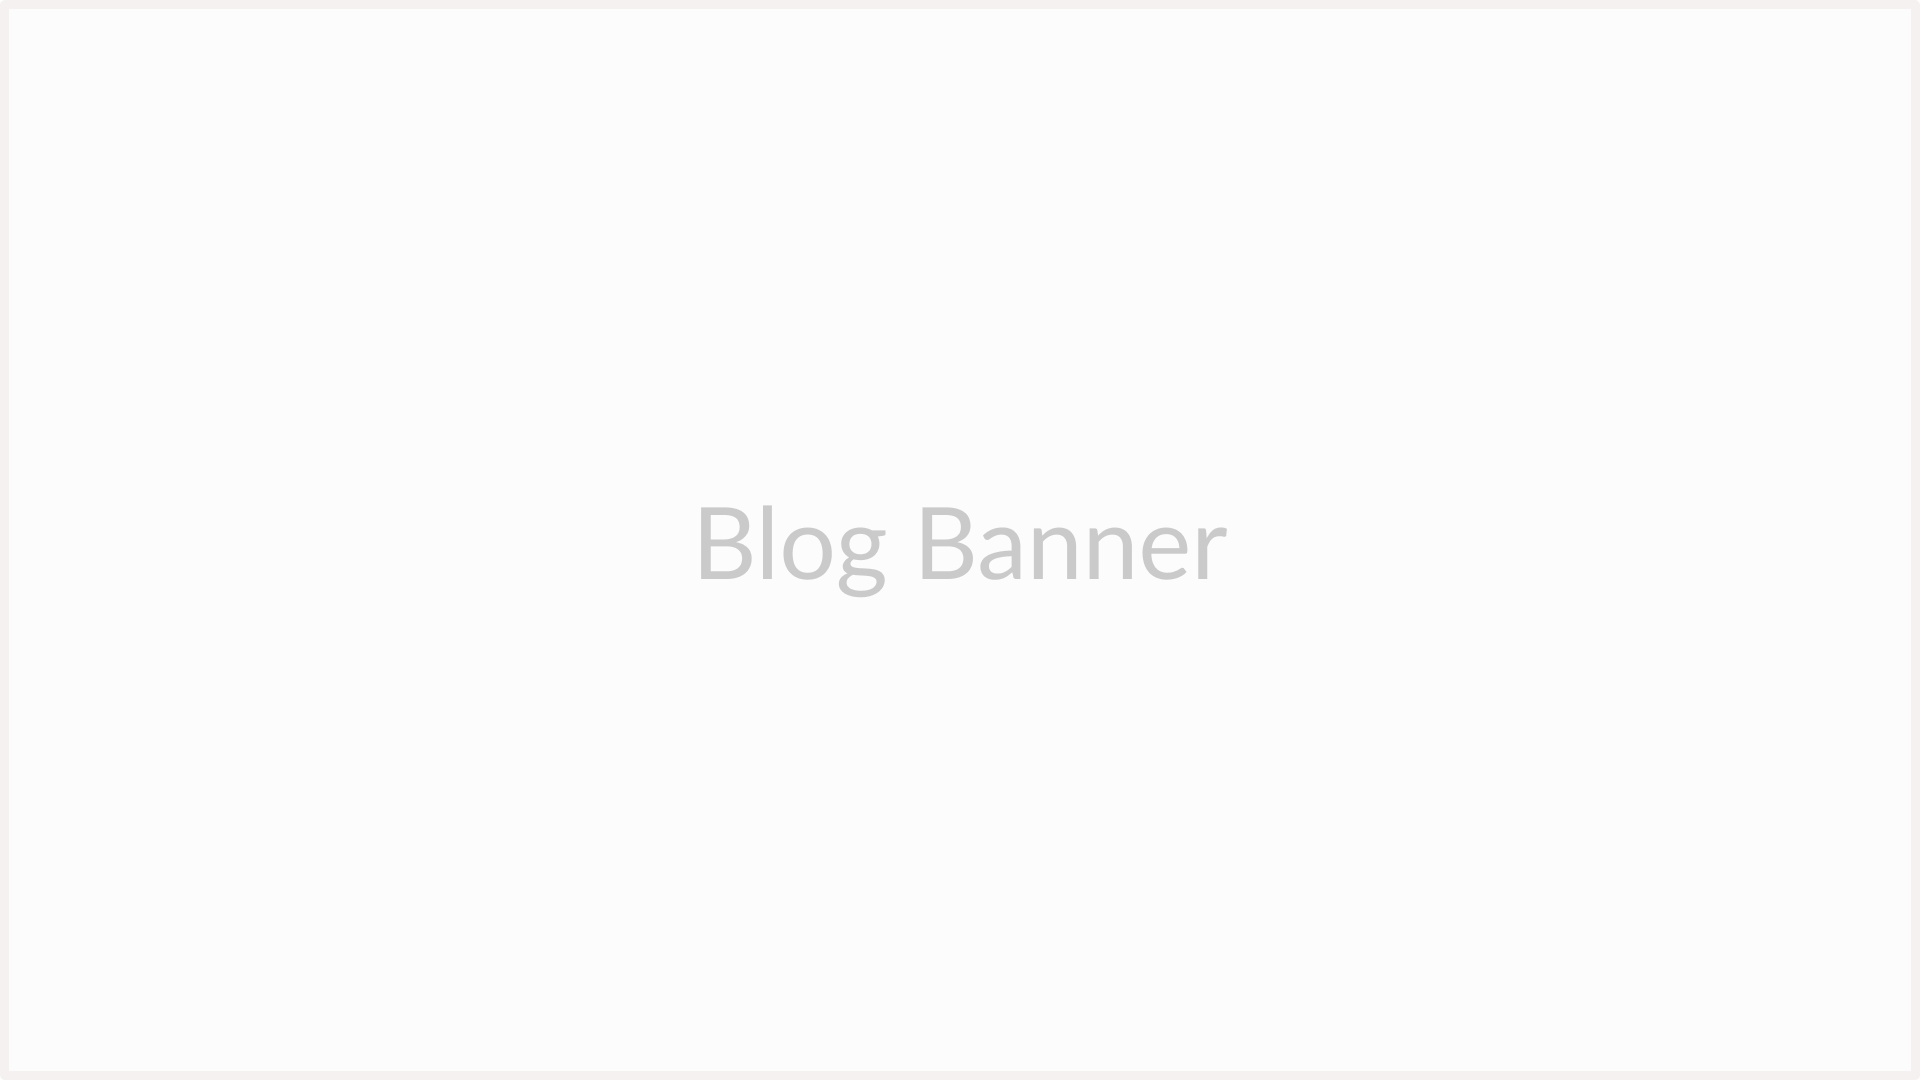
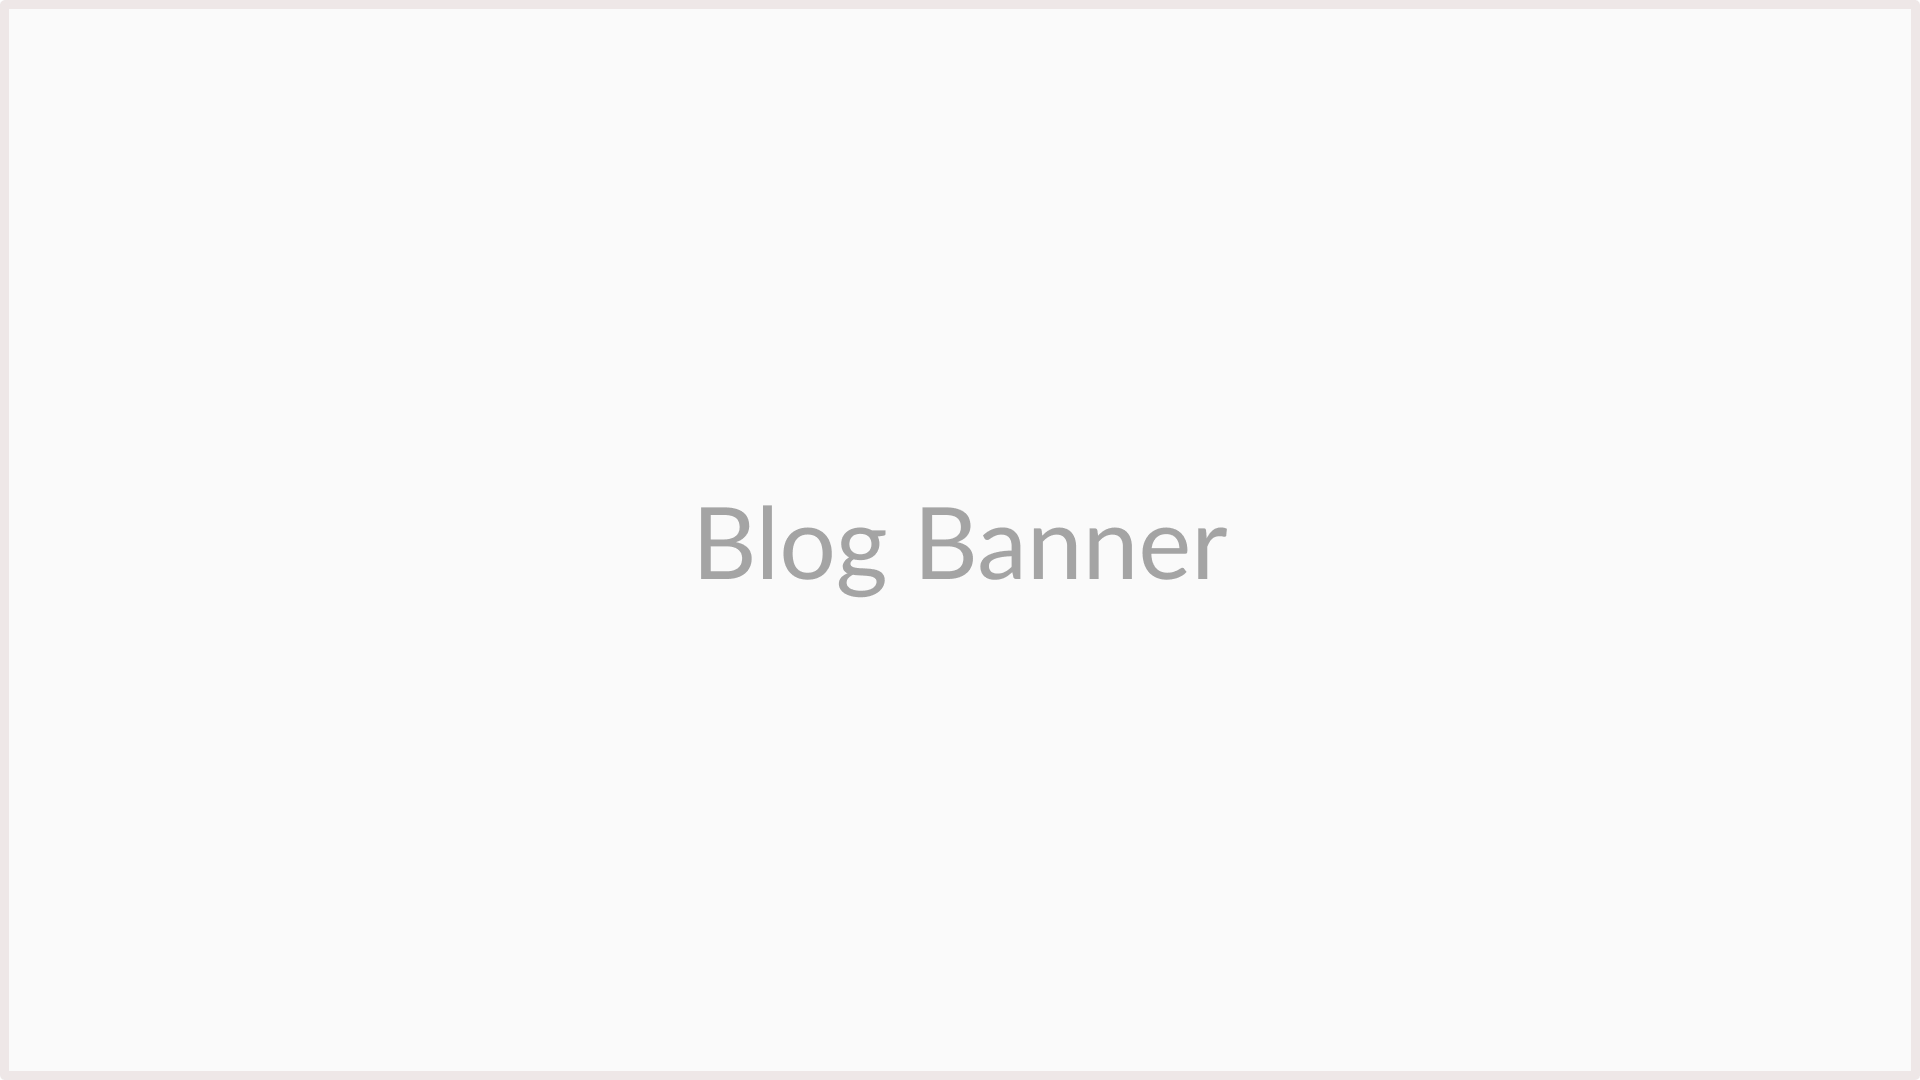
In the blog -  Blog Title Texture
Creating a text area where we can write the heading or the title of the blog

 On branch main

 Changes to be committed:
	modified:   Portfolio-frontend/src/assets/blog banner.png
	modified:   Portfolio-frontend/src/components/Blog/Pages/BlogEditorPages.jsx
	modified:   Portfolio-frontend/src/components/Blog/blogApp/BlogEditor.jsx
	modified:   Portfolio-frontend/src/components/Blog/blogApp/BlogEditor.scss
	modified:   Portfolio-frontend/src/components/Blog/blogApp/BlogNavbar.jsx
	modified:   Portfolio-frontend/src/components/Blog/blogApp/BlogNavbar.scss
	modified:   Portfolio-frontend/src/contexts/globalContext.jsx

Changed region(s): [[0.3438, 0.4583, 0.6562, 0.55]]

diff --git a/Portfolio-frontend/src/components/Blog/blogApp/BlogEditor.jsx b/Portfolio-frontend/src/components/Blog/blogApp/BlogEditor.jsx
@@ -1,33 +1,57 @@
 // PersonalWebSite\Portfolio-frontend\src\components\Blog\blogApp\BlogEditor.jsx
 
 import { Link } from 'react-router-dom';
-import { useRef } from 'react';
+import { useContext, useRef } from 'react';
 import { toast, Toaster } from 'react-hot-toast';
 import images from '../../../assets/imageIndex.js';
 import { awsUploadImage } from '../../../common/aws.jsx';
 import './BlogEditor.scss';
+import { userContext } from '../../../contexts/context';
 
 export const BlogEditor = () => {
-  let blogBannerRef = useRef();
+  const nextInputRef = useRef(); // Reference to next input block/field
 
-  const handleBannerUpload = (e) => {
-    let img = e.target.files[0];
+  // Context access and destructuring
+  const { blog, setBlog } = useContext(userContext);
+  const { title, banner, content, tags, author } = blog[0]; // Accessing the first element of the array
+
+  const handleTitleKeyDown = e => {
+    if (e.key === 'Enter') {
+      // If the "Enter" key is pressed
+      e.preventDefault(); // Prevents line breaks or submission
+      if (nextInputRef.current) {
+        nextInputRef.current.focus(); //Moves focus to the next field
+      }
+    }
+  };
+
+  const handleTitleChange = e => {
+    const input = e.target.value;
+    // Updating blog status
+    setBlog([{ ...blog[0], title: input }]);
+  };
+
+  const handleBannerUpload = e => {
+    const img = e.target.files[0];
 
     if (img) {
-      let loadingToast = toast.loading('uploading...');
+      const loadingToast = toast.loading('Uploading...');
 
       awsUploadImage(img)
-        .then((url) => {
+        .then(url => {
           console.log('Uploaded image URL:', url);
           if (url) {
             toast.dismiss(loadingToast);
             toast.success('Image uploaded successfully');
-            blogBannerRef.current.src = url;
+
+            // Updating the blog status banner
+            setBlog([{ ...blog[0], banner: url }]);
           }
         })
-        .catch((err) => {
+        .catch(err => {
           toast.dismiss(loadingToast);
-          return toast.error(err);
+          toast.error('Image upload failed');
+          console.error(err);
         });
     }
   };
@@ -35,16 +59,15 @@ export const BlogEditor = () => {
   return (
     <>
       <nav className='blogEditorNavbar'>
-        {/* Link to the blog homepage */}
         <Link to='/blog'>
           <img src={images.deoIconGold} alt='Circular logo with the letter D' />
         </Link>
-        <p className='blogEditorTitle'>New blog</p>
+
+        <p className='blogEditorTitle'> {title.length ? title : 'New Blog'}</p>
+
         <div className='blogEditorNavbarButtons'>
           <button className='blogEditorNavbarButton'>Publish</button>
-          <button className='blogEditorNavbarButton blogEditorNavbarButtonDraft'>
-            save draft
-          </button>
+          <button className='blogEditorNavbarButton blogEditorNavbarButtonDraft'>Save draft</button>
         </div>
       </nav>
       <Toaster />
@@ -53,8 +76,7 @@ export const BlogEditor = () => {
           <div className='blogEditorBanner'>
             <label htmlFor='uploadBanner'>
               <img
-                ref={blogBannerRef}
-                src={images.blogBanner}
+                src={banner || images.blogBanner} // Use the global state banner
                 alt='Placeholder image'
                 className='blogEditorBannerImage'
               />
@@ -67,6 +89,20 @@ export const BlogEditor = () => {
               />
             </label>
           </div>
+          <textarea
+            placeholder='Blog Title'
+            className='blogEditorTitle'
+            onKeyDown={handleTitleKeyDown}
+            onChange={handleTitleChange}
+            value={title} // Synchronizing title value with global state
+          ></textarea>
+
+          <hr className='blogEditorBreak' />
+
+          <textarea
+            ref={nextInputRef} // Reference to the next field
+            placeholder='Next Block'
+            className='blogEditorContent'></textarea>
         </div>
       </section>
     </>

diff --git a/Portfolio-frontend/src/contexts/globalContext.jsx b/Portfolio-frontend/src/contexts/globalContext.jsx
@@ -1,11 +1,5 @@
 // src/contexts/globalContext.jsx
 
-'use client';
-{
-  /* The "use client" Execution Guarantees that any code that depends 
-  on the client environment (such as React hooks) is executed correctly */
-}
-
 import PropTypes from 'prop-types';
 import { useCallback, useEffect, useState } from 'react';
 import { useNavigate } from 'react-router-dom';
@@ -15,35 +9,36 @@ import { lookInSession } from '../common/session';
 function Container({ children }) {
   const navigate = useNavigate();
 
-  // Variable refers to the icon with the symbol 'D'
   const onDeoIconGold1Click = useCallback(() => {
     window.scrollTo({ top: 0, behavior: 'smooth' });
   }, []);
 
-  // State for editor state which will just tell what state this editor page is
   const [editorState, setEditorState] = useState('editor');
-
-  // State for authentication status
   const [status, setStatus] = useState('notAuthenticated');
-
-  // Create a user auth State with accessToken and profile_img
   const [userAuth, setUserAuth] = useState({
     accessToken: null,
     profile_img: null,
     username: null,
   });
 
-  // useEffect should be called once
+  const blogStructure = {
+    title: '',
+    banner: '',
+    content: '',
+    tags: '',
+    auther: { personal_info: {} },
+  };
+
+  const [blog, setBlog] = useState([blogStructure]);
+
   useEffect(() => {
     const userInSession = lookInSession('user');
-
-    // Check if the user is already logged in, and if so, retrieve their data from the session storage.
     if (userInSession) {
       try {
         const user = JSON.parse(userInSession);
         setUserAuth({
           accessToken: user.accessToken,
-          profile_img: user.profile_img, // Add profile_img from session data
+          profile_img: user.profile_img,
         });
         setStatus(user.accessToken ? 'authenticated' : 'notAuthenticated');
       } catch (error) {
@@ -57,13 +52,10 @@ function Container({ children }) {
     }
   }, []);
 
-  // Function to handle sign out
   const onSignOutClick = useCallback(() => {
     setUserAuth({ accessToken: null, profile_img: null });
     setStatus('notAuthenticated');
-    // Clear user data from session storage
     sessionStorage.removeItem('user');
-    // Redirects to blog page after logout
     navigate('/blog');
   }, [navigate]);
 
@@ -78,6 +70,9 @@ function Container({ children }) {
         onSignOutClick,
         editorState,
         setEditorState,
+        blog,
+        setBlog,
+        blogStructure,
       }}>
       {children}
     </userContext.Provider>

diff --git a/Portfolio-frontend/src/components/Blog/blogApp/BlogEditor.scss b/Portfolio-frontend/src/components/Blog/blogApp/BlogEditor.scss
@@ -9,7 +9,8 @@
   gap: var(--gap-5xs);
   color: black;
   .blogEditorTitle {
-    visibility: hidden;
+    /*  visibility: hidden; */
+    color: black;
   }
   .blogEditorNavbarButtons {
     display: flex;
@@ -23,12 +24,8 @@
       width: auto;
       margin: var(--margin-2xs);
       color: var(--color-white);
-      font-size: clamp(
-        var(--font-size-3xs),
-        1vw + 0.2rem,
-        var(--font-size-1xs)
-      );
-      border: 1px solid var(--boxbackgroundgreenlight);
+      font-size: clamp(var(--font-size-3xs), 1vw + 0.2rem, var(--font-size-1xs));
+      border: 1px solid var(--color-grayLigh);
       padding: var(--padding-3xs) var(--padding-base);
       background-color: var(--boxbackgroundgreendark);
       border-radius: var(--br-6xl);
@@ -55,7 +52,7 @@
       position: relative;
       width: 100%;
       padding-bottom: 56.25%; /* Aspect ratio 16:9*/
-      border: 4px solid var(--color-grayLight);
+      border: 4px solid var(--color-gainsboro);
       & > * {
         position: absolute;
         top: 0;
@@ -74,5 +71,25 @@
         z-index: 20;
       }
     }
+
+    .blogEditorTitle {
+      width: 100%;
+      margin-top: var(--margin-5xl);
+      color: var(--color-darkslategray-100);
+      font-size: clamp(var(--font-size-3xs), 1vw + 1rem, var(--font-size-20xl));
+      font-weight: 700;
+      outline: none !important;
+      resize: none;
+      border: none;
+
+      &::placeholder {
+        color: #cecece; /* Substitua pela cor desejada */
+        opacity: 1; /* Assegura que o placeholder seja visível */
+      }
+    }
+  }
+  .blogEditorBreak {
+    width: 100%;
+    margin: var(--margin-5xl) 0;
   }
 }

diff --git a/Portfolio-frontend/src/components/Blog/blogApp/BlogNavbar.jsx b/Portfolio-frontend/src/components/Blog/blogApp/BlogNavbar.jsx
@@ -43,22 +43,13 @@ export const BlogNavbar = () => {
         <Link to='/blog'>
           <img src={images.deoIconGold} alt='Circular logo with the letter D' />
         </Link>
+
         <div className='blogNavbarSearchAndNotificationIcon'>
           {/* Search box with conditional visibility */}
-          <div
-            className={`blogSearch ${
-              isMobile && !searchBoxVisibility ? 'hide' : 'show'
-            }`}>
-            <input
-              type='text'
-              placeholder='Search'
-              className='blogSearchInput'
-            />
+          <div className={`blogSearch ${isMobile && !searchBoxVisibility ? 'hide' : 'show'}`}>
+            <input type='text' placeholder='Search' className='blogSearchInput' />
             {/* Search icon with conditional click handler based on screen size */}
-            <FaSearch
-              onClick={isMobile ? toggleSearchBox : null}
-              className='BlogSearchIcon'
-            />
+            <FaSearch onClick={isMobile ? toggleSearchBox : null} className='BlogSearchIcon' />
           </div>
           {/* Conditions rendering on whether the user is logged in */}
           {userAuth?.accessToken && (

diff --git a/Portfolio-frontend/src/components/Blog/Pages/BlogEditorPages.jsx b/Portfolio-frontend/src/components/Blog/Pages/BlogEditorPages.jsx
@@ -2,12 +2,20 @@
 
 import { useContext } from 'react';
 import { userContext } from '../../../contexts/context';
-import './BlogEditorPages.scss';
 import { BlogEditor } from '../blogApp/BlogEditor';
 import { BlogPublishForm } from '../blogApp/BlogPublishForm';
+import './BlogEditorPages.scss';
 
 export const BlogEditorPages = () => {
-  const { editorState, setEditorState } = useContext(userContext);
+  const { editorState, blog, setBlog } = useContext(userContext);
 
-  return <>{editorState === 'editor' ? <BlogEditor /> : <BlogPublishForm />}</>;
+  return (
+    <>
+      {editorState === 'editor' ? (
+        <BlogEditor blog={blog} setBlog={setBlog} />
+      ) : (
+        <BlogPublishForm blog={blog} setBlog={setBlog} />
+      )}
+    </>
+  );
 };

diff --git a/Portfolio-frontend/src/components/Blog/blogApp/BlogNavbar.scss b/Portfolio-frontend/src/components/Blog/blogApp/BlogNavbar.scss
@@ -7,14 +7,15 @@
   display: flex;
   justify-content: space-between;
   align-items: center;
-  gap: 3rem;
   width: 100%;
+  gap: 3rem;
   padding: {
     left: 2vw;
     right: 5vw;
     top: 1.25rem;
     bottom: 1.25rem;
   }
+
   /* border-bottom: 1px solid var(--color-gold); */
 
   .blogNavbarSearchAndNotificationIcon {
